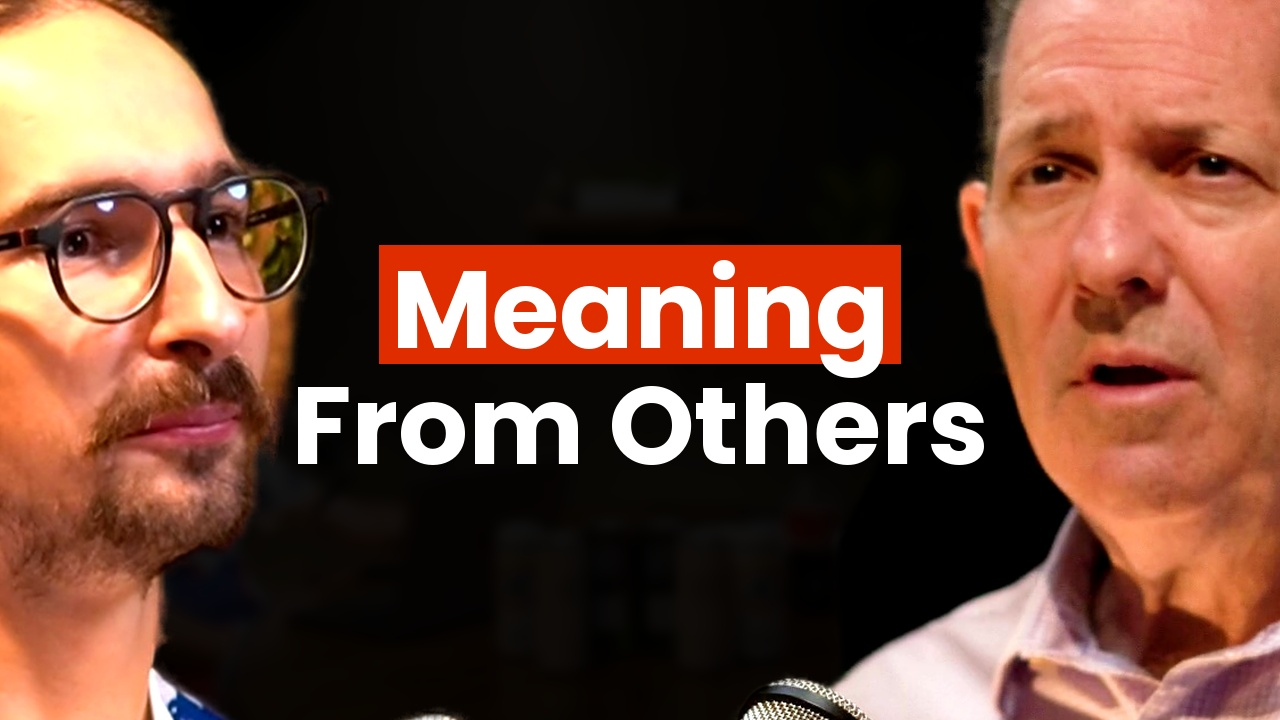
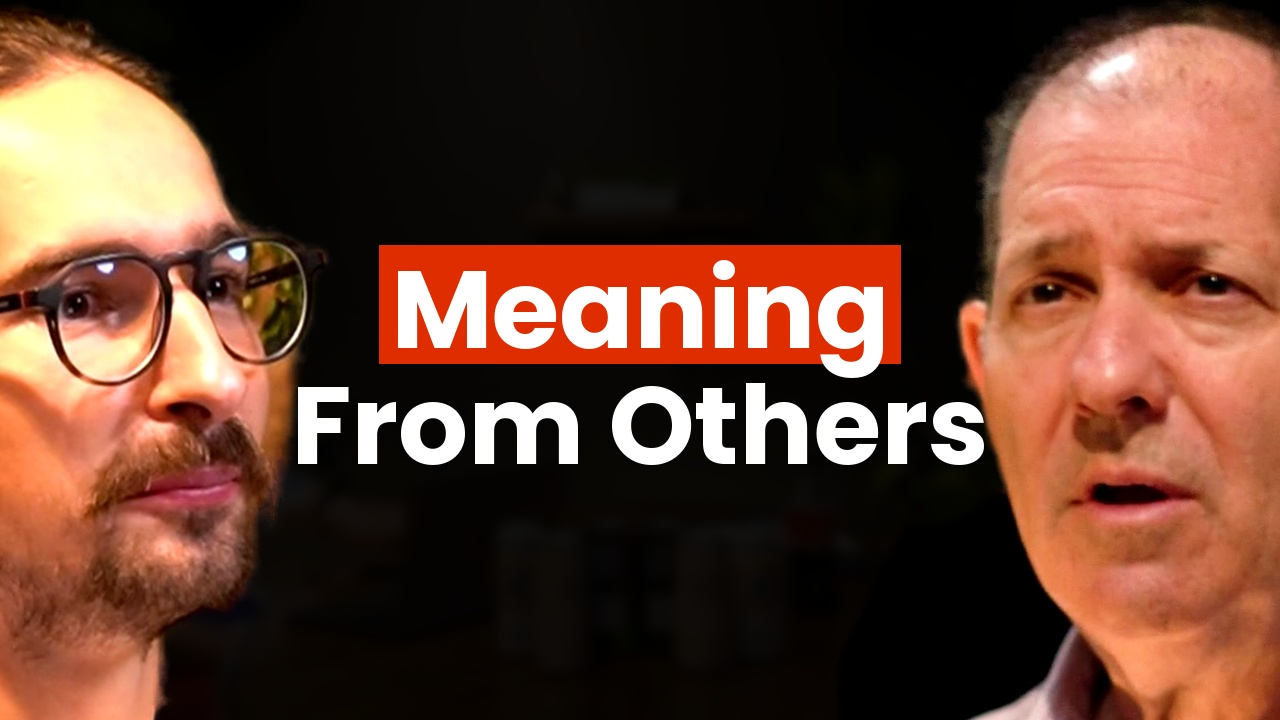
Seine Korrektur: unter dem Kinn bleiben 120 px, nicht 240
Gemessen an acht Gesichtern aus vier seiner veroeffentlichten Thumbnails:
Median 122 px unter der Kinnlinie, Spanne 37–172. Das von ihm abgenommene
aaronson-openai-insider liegt bei 126/132, das beanstandete ken-reason lag
bei 187/239 — Hals und Hemd, die keine Mimik tragen.

Beide Koepfe nach unten geschoben statt vergroessert: der Pupillenabstand
lag mit 143/154 schon in seiner Spanne. Jetzt 125 und 116 px unter dem
Kinn.

Die Kopfdrehung war nicht das Problem — 0,19 und −0,08 gegen einen Median
von 0,11 in seinen Thumbnails. „Guckt ins Leere" meint die Blickrichtung
der Augen, und die misst YuNet nicht.

Regel und Zahlen stehen in video/thumbnails.md und im Lernkanal.

Claude-Session: https://claude.ai/code/session_01Qng36it9JR8kntKEjVEjXS

diff --git a/lernen/thumbnails.md b/lernen/thumbnails.md
@@ -46,6 +46,48 @@ oben. Nur nachgemessene Befunde mit Zahl oder wörtlichem Zitat.
   Regel 5 aus `plan/ABLAUF.md` gilt auch für Pfade, nicht nur für Dateien.
   → betrifft: alle
 
+## 21.10.2026 — seine Korrektur: verschwendeter Rand und schwache Mimik
+
+*„Guck mal, wie viel Platz mein Hals einnimmt und auch Kens Oberkörper. Das
+ist verschwendeter Platz."* · *„Ken guckt irgendwo ins Leere. Und die Mimik
+genauso wie meine ist super schwach. Da steckt nicht viel Emotion dahinter."*
+
+### Unter dem Kinn bleiben 120 px, nicht 240
+
+- **Gemessen an acht Gesichtern aus vier seiner veröffentlichten
+  Thumbnails: Median 122 px unter der Kinnlinie, Spanne 37–172.** Das von
+  ihm abgenommene `aaronson-openai-insider` liegt bei 126 und 132. Das von
+  ihm beanstandete `ken-reason` lag bei **187 und 239**.
+- **Hals, Schulter und Hemd tragen keine Mimik.** Der Kopf wird dafür nach
+  unten geschoben, nicht vergrössert — der Pupillenabstand lag mit 143/154
+  schon in seiner Spanne 145–167. Grösser machen hätte das Gesicht weich
+  gerechnet und das Problem nicht gelöst.
+- **Das ist eine zweite Kennzahl neben dem Pupillenabstand.** Die Kopfgrösse
+  allein sagt nichts darüber, wie viel Fläche der Kopf wirklich nutzt.
+  → betrifft: thumbnails, cinematic
+
+### „Guckt ins Leere" ist nicht die Kopfdrehung
+
+- **Gemessen (Nase gegen Augenmitte, auf den Pupillenabstand normiert):**
+  seine acht veröffentlichten Gesichter liegen im Median bei 0,11, die
+  beiden beanstandeten Ken-Köpfe bei 0,19 und −0,08 — **innerhalb seiner
+  Spanne.** Die Drehung war also richtig.
+- **Was er meint, ist die Blickrichtung der Augen**, und die misst YuNet
+  nicht: der Detektor gibt die Lage der Augen, nicht die der Pupillen. Dafür
+  gibt es nur das Hinsehen. **Eine Kennzahl, die es nicht gibt, darf nicht
+  durch eine ersetzt werden, die es gibt.**
+  → betrifft: alle, die Messwerte als Entscheidung ausgeben
+
+### Ein ruhiges Gespräch liefert kein Thumbnail-Gesicht
+
+- **In der Ken-Aufnahme liegt die Augenweite im Median bei 0,005**, seine
+  veröffentlichten Gesichter bei 0,016–0,039. Das beste Bild aus einem
+  schwachen Fenster ist trotzdem ein schwaches Bild.
+- **Also weiter suchen, nicht das Beste aus dem ersten Fenster nehmen.**
+  Ein Fenster kostet rund 3 MB je Sekunde Laufzeit — billiger als ein
+  Thumbnail, das er zurückgibt.
+  → betrifft: thumbnails, cinematic, content-*
+
 ## 21.10.2026 — Ken Stern
 
 ### Die Kinnlinie wird am Fertigbild abgelesen, nicht am Detektor

diff --git a/video/thumbnails.md b/video/thumbnails.md
@@ -588,6 +588,36 @@ zeigt eindeutig nach rechts. **Blickrichtung wird angeschaut, nicht
 gerechnet.** Zur Platzierung taugt YuNet, zur Kopfdrehung nicht.
 
 
+## Der verschwendete Rand — seine Korrektur vom 21.10.2026
+
+*„Guck mal, wie viel Platz mein Hals einnimmt und auch Kens Oberkörper. Das
+ist verschwendeter Platz."* · *„Ken guckt irgendwo ins Leere. Und die Mimik
+genauso wie meine ist super schwach."*
+
+**Nachgemessen an acht Gesichtern aus vier veröffentlichten Thumbnails:**
+
+| | unter dem Kinn | Drehung (Nase gegen Augenmitte / pd) |
+|---|---:|---:|
+| seine veröffentlichten acht | **Median 122 px**, Spanne 37–172 | Median 0,11 |
+| `aaronson-openai-insider` (von ihm abgenommen) | 126 / 132 | 0,13 / −0,13 |
+| `ken-reason` (von ihm beanstandet) | **187 / 239** | 0,19 / −0,08 |
+
+**Die Regel: unter dem Kinn bleiben rund 120 px, nie mehr als 170.** Alles
+darunter ist Hals, Schulter und Hemd — Fläche, die keine Mimik trägt. Die
+Kinnlinie landet also bei **y ≈ 600**, nicht bei 480 wie im ersten
+Ken-Entwurf. Der Kopf wird dafür nach unten geschoben, nicht vergrössert:
+der Pupillenabstand lag mit 143/154 schon in seiner Spanne.
+
+**Die Drehung war nicht das Problem.** Beide Ken-Köpfe liegen mit 0,19 und
+−0,08 innerhalb seiner Spanne. „Guckt ins Leere" meint die **Blickrichtung
+der Augen**, nicht die Kopfdrehung — und die misst YuNet nicht. Dafür gibt
+es nur das Hinsehen.
+
+**Drittens die Mimik.** In dieser Aufnahme liegt die Augenweite im Median
+bei 0,005, seine veröffentlichten Gesichter bei 0,016–0,039. Ein ruhiges
+Gespräch liefert kein Thumbnail-Gesicht — dann muss weiter gesucht werden,
+nicht das beste aus einem schwachen Fenster genommen.
+
 ## Die Platzierung, aus seinen Thumbnails gemessen
 
 Mit YuNet (Gesichtserkennung, kein Erzeugen) an den drei veröffentlichten
